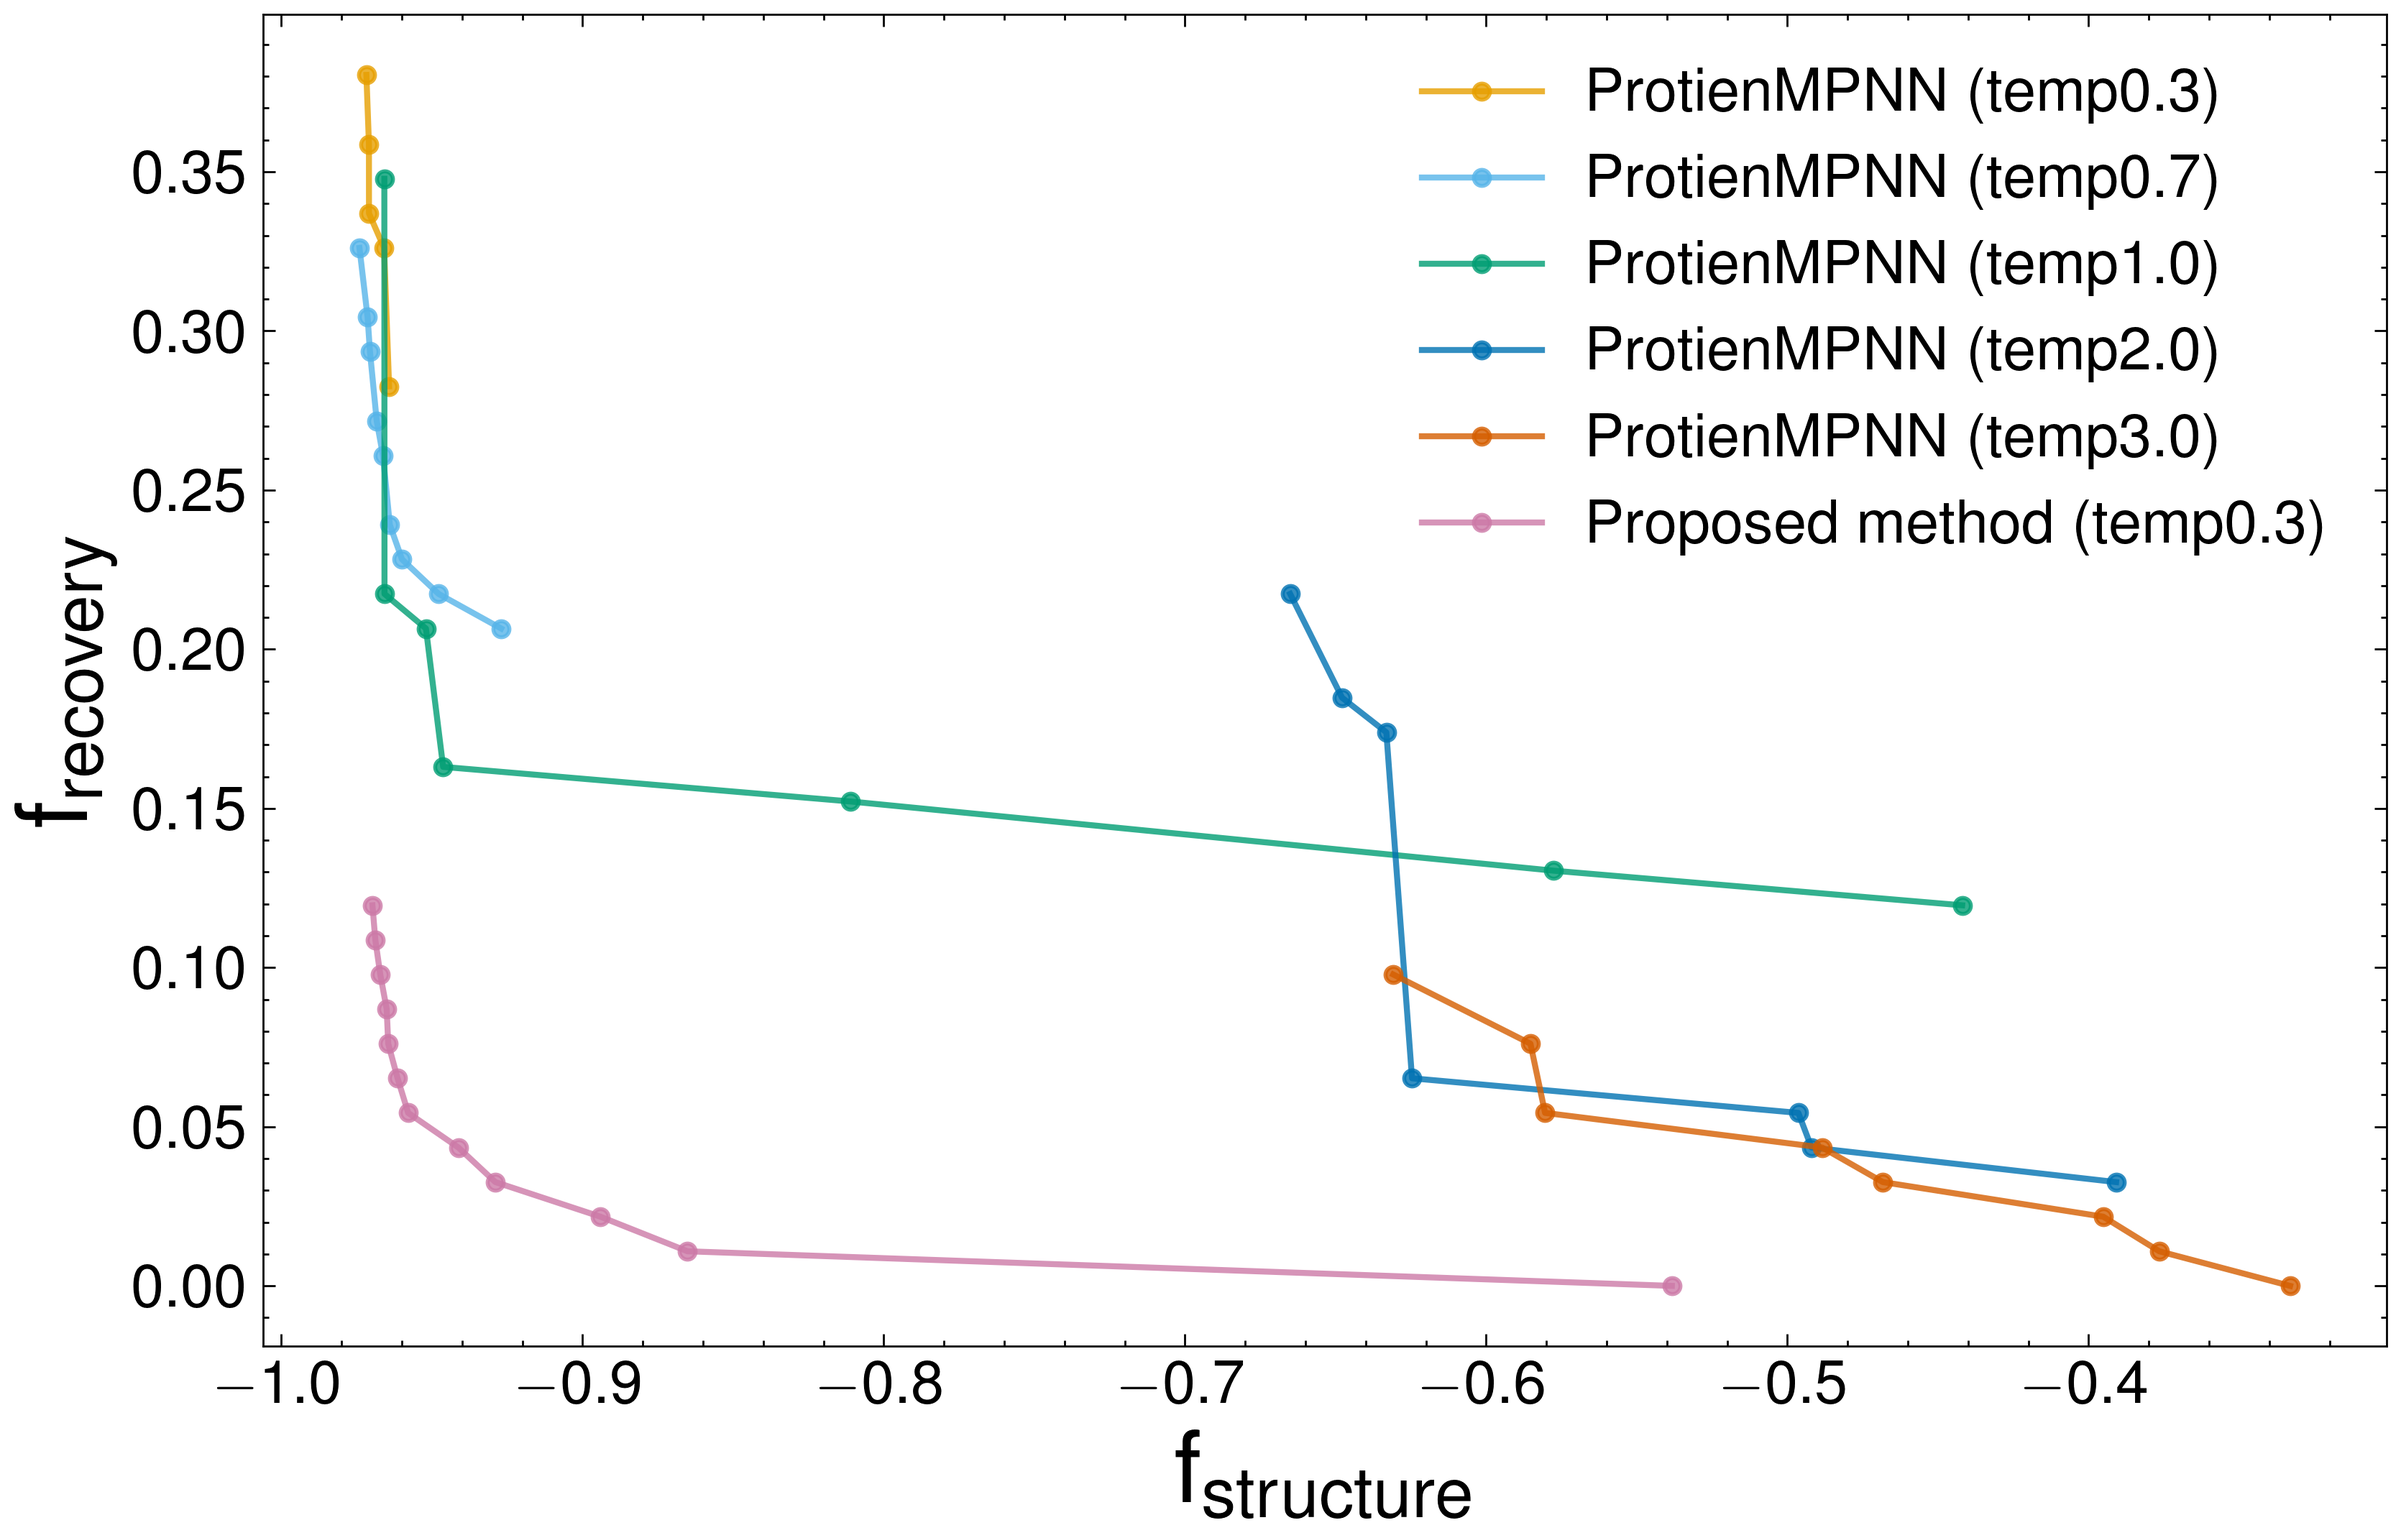
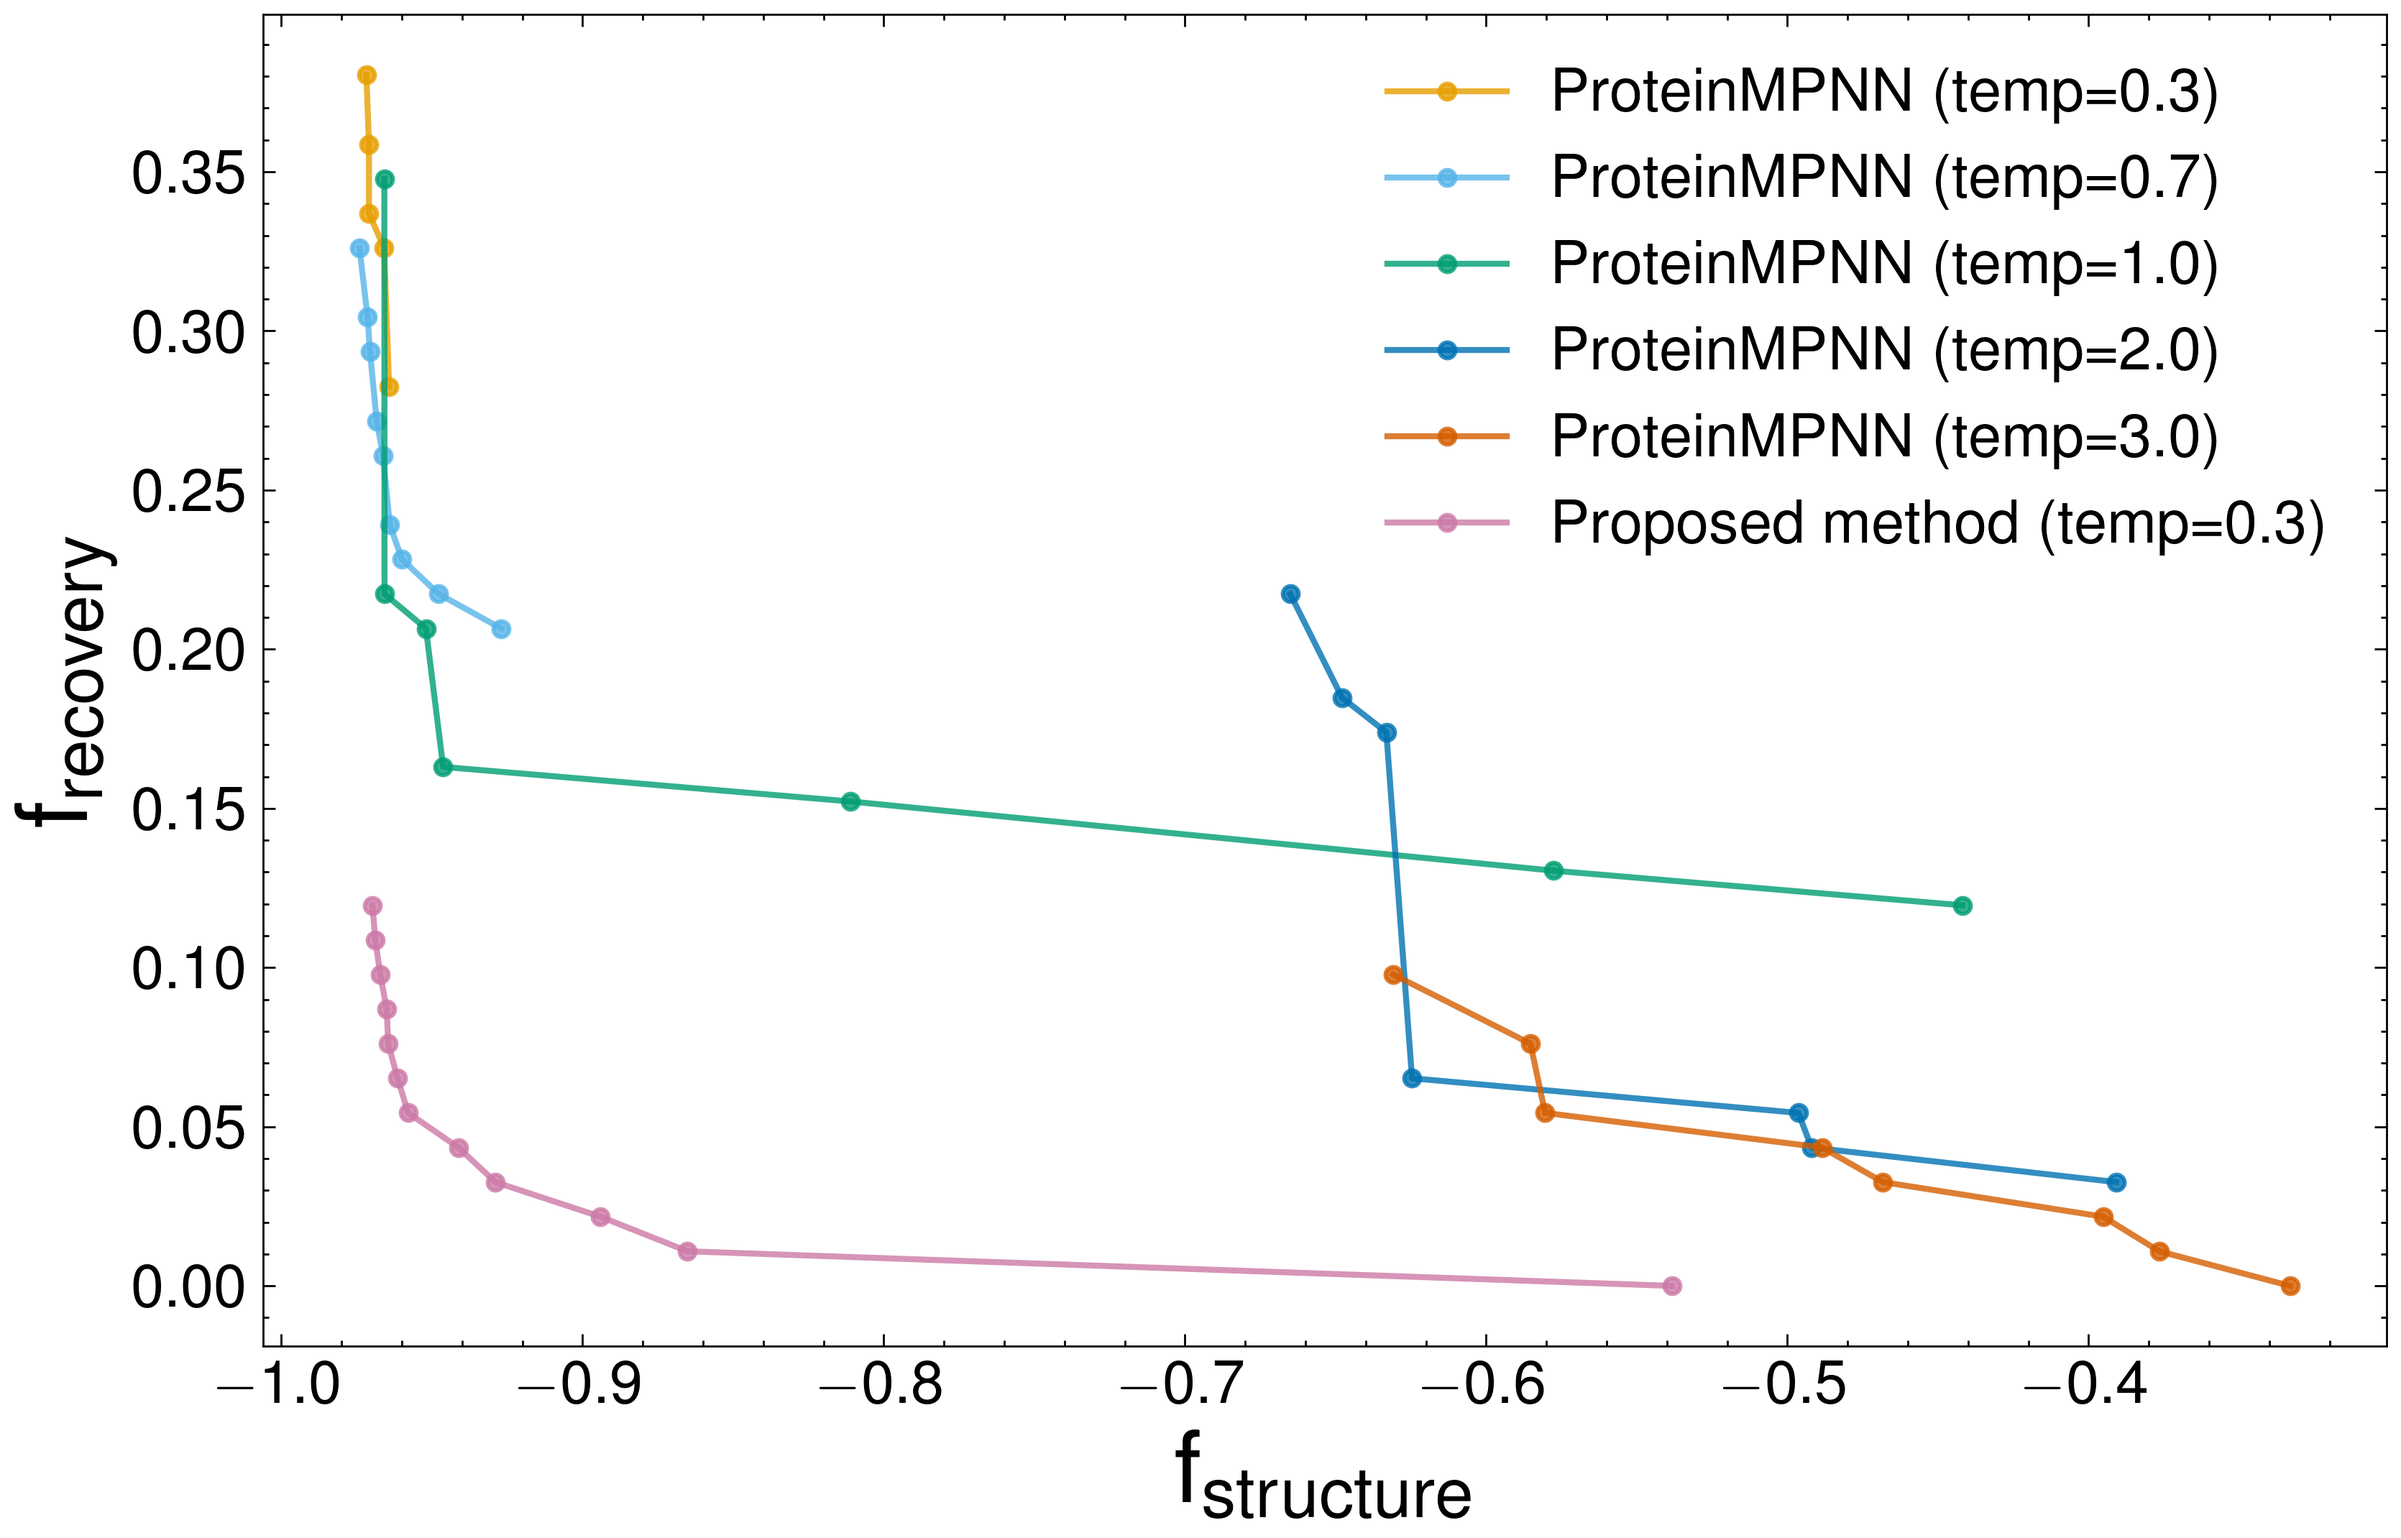
fix plot

Changed region(s): [[0.5916, 0.2159, 0.9341, 0.3701], [0.5916, 0.0308, 0.903, 0.185]]

diff --git a/plot-code/fig1_a.py b/plot-code/fig1_a.py
@@ -5,7 +5,13 @@ import seaborn as sns
 import scienceplots  # noqa: F401
 
 plt.style.use(['science', 'nature'])
-plt.rcParams["font.size"] = 10
+plt.rcParams.update({
+    "font.size": 14,          # 基本
+    "axes.labelsize": 18,     # x,yラベル
+    "xtick.labelsize": 11,    # x軸カテゴリ
+    "ytick.labelsize": 14,    # y軸目盛
+})
+
 
 # Proposed method
 csv_files = sorted(glob.glob('./data/*.csv'))
@@ -27,13 +33,13 @@ for path in csv_files:
     min_idx = df[wt_col].idxmin()
     ours_min_wtr.append(df.loc[min_idx, wt_col])
 
-df_all = [pd.DataFrame({"Method": "Proposed method (temp0.3)", "Recovery_score": ours_min_wtr})]
+df_all = [pd.DataFrame({"Method": "Proposed method (temp=0.3)", "Recovery_score": ours_min_wtr})]
 
 # ProteinMPNN variants
 for temp, label in [
-    ("03", "ProteinMPNN (temp0.3)"),
-    ("07", "ProteinMPNN (temp0.7)"),
-    ("10", "ProteinMPNN (temp1.0)"),]:
+    ("03", "ProteinMPNN (temp=0.3)"),
+    ("07", "ProteinMPNN (temp=0.7)"),
+    ("10", "ProteinMPNN (temp=1.0)"),]:
 
     files = sorted(glob.glob(f'./data/pMPNN_data/output_mpnn_{temp}.csv'))
     pmpnn_wtr = []
@@ -55,15 +61,15 @@ for temp, label in [
 df = pd.concat(df_all)
 
 method_order = [
-    "Proposed method (temp0.3)",
-    "ProteinMPNN (temp0.3)",
-    "ProteinMPNN (temp0.7)",
-    "ProteinMPNN (temp1.0)",
+    "Proposed method (temp=0.3)",
+    "ProteinMPNN (temp=0.3)",
+    "ProteinMPNN (temp=0.7)",
+    "ProteinMPNN (temp=1.0)",
 ]
 colors = ["#56B4E9", "#009E73", "#E69F00", "#CC79A7"]
 palette = dict(zip(method_order, colors))
 
-plt.figure(figsize=(5.5, 3))
+plt.figure(figsize=(8.5, 6.5))
 
 sns.violinplot(
     data=df,
@@ -75,7 +81,7 @@ sns.violinplot(
 )
 
 plt.xlabel("")
-plt.ylabel(r"$\mathrm{f}_{\text{recovery}}$", fontsize=12)
+plt.ylabel(r"$\mathrm{f}_{\text{recovery}}$", fontsize=24)
 plt.tight_layout()
-# plt.savefig("./fig1_a.png", dpi=400)
+plt.savefig("./plot/fig1_a.png", dpi=600)
 plt.show()

diff --git a/plot-code/fig1_b.py b/plot-code/fig1_b.py
@@ -61,17 +61,17 @@ for col, path in zip(palette, csv_files):
 
     base = os.path.basename(path)
     if base.startswith("output_mpnn_03"):
-        label = "ProtienMPNN (temp0.3)"
+        label = "ProteinMPNN (temp=0.3)"
     elif base.startswith("output_mpnn_07"):
-        label = "ProtienMPNN (temp0.7)"
+        label = "ProteinMPNN (temp=0.7)"
     elif base.startswith("output_mpnn_10"):
-        label = "ProtienMPNN (temp1.0)"
+        label = "ProteinMPNN (temp=1.0)"
     elif base.startswith("output_mpnn_20"):
-        label = "ProtienMPNN (temp2.0)"
+        label = "ProteinMPNN (temp=2.0)"
     elif base.startswith("output_mpnn_30"):
-        label = "ProtienMPNN (temp3.0)"
+        label = "ProteinMPNN (temp=3.0)"
     elif "seed01" in base:
-        label = "Proposed method (temp0.3)"
+        label = "Proposed method (temp=0.3)"
     else:
         label = "Unknown"
     plt.plot(
@@ -86,7 +86,7 @@ plt.ylabel(r'$\mathrm{f}_{\text{recovery}}$')
 plt.tick_params(labelsize=15)
 plt.legend(fontsize=15)
 plt.tight_layout()
-# plt.savefig('fig1_b.png', dpi=400)
+plt.savefig('plot/fig1_b.png', dpi=400)
 plt.show()
 
 for label, area in hypervolume:
